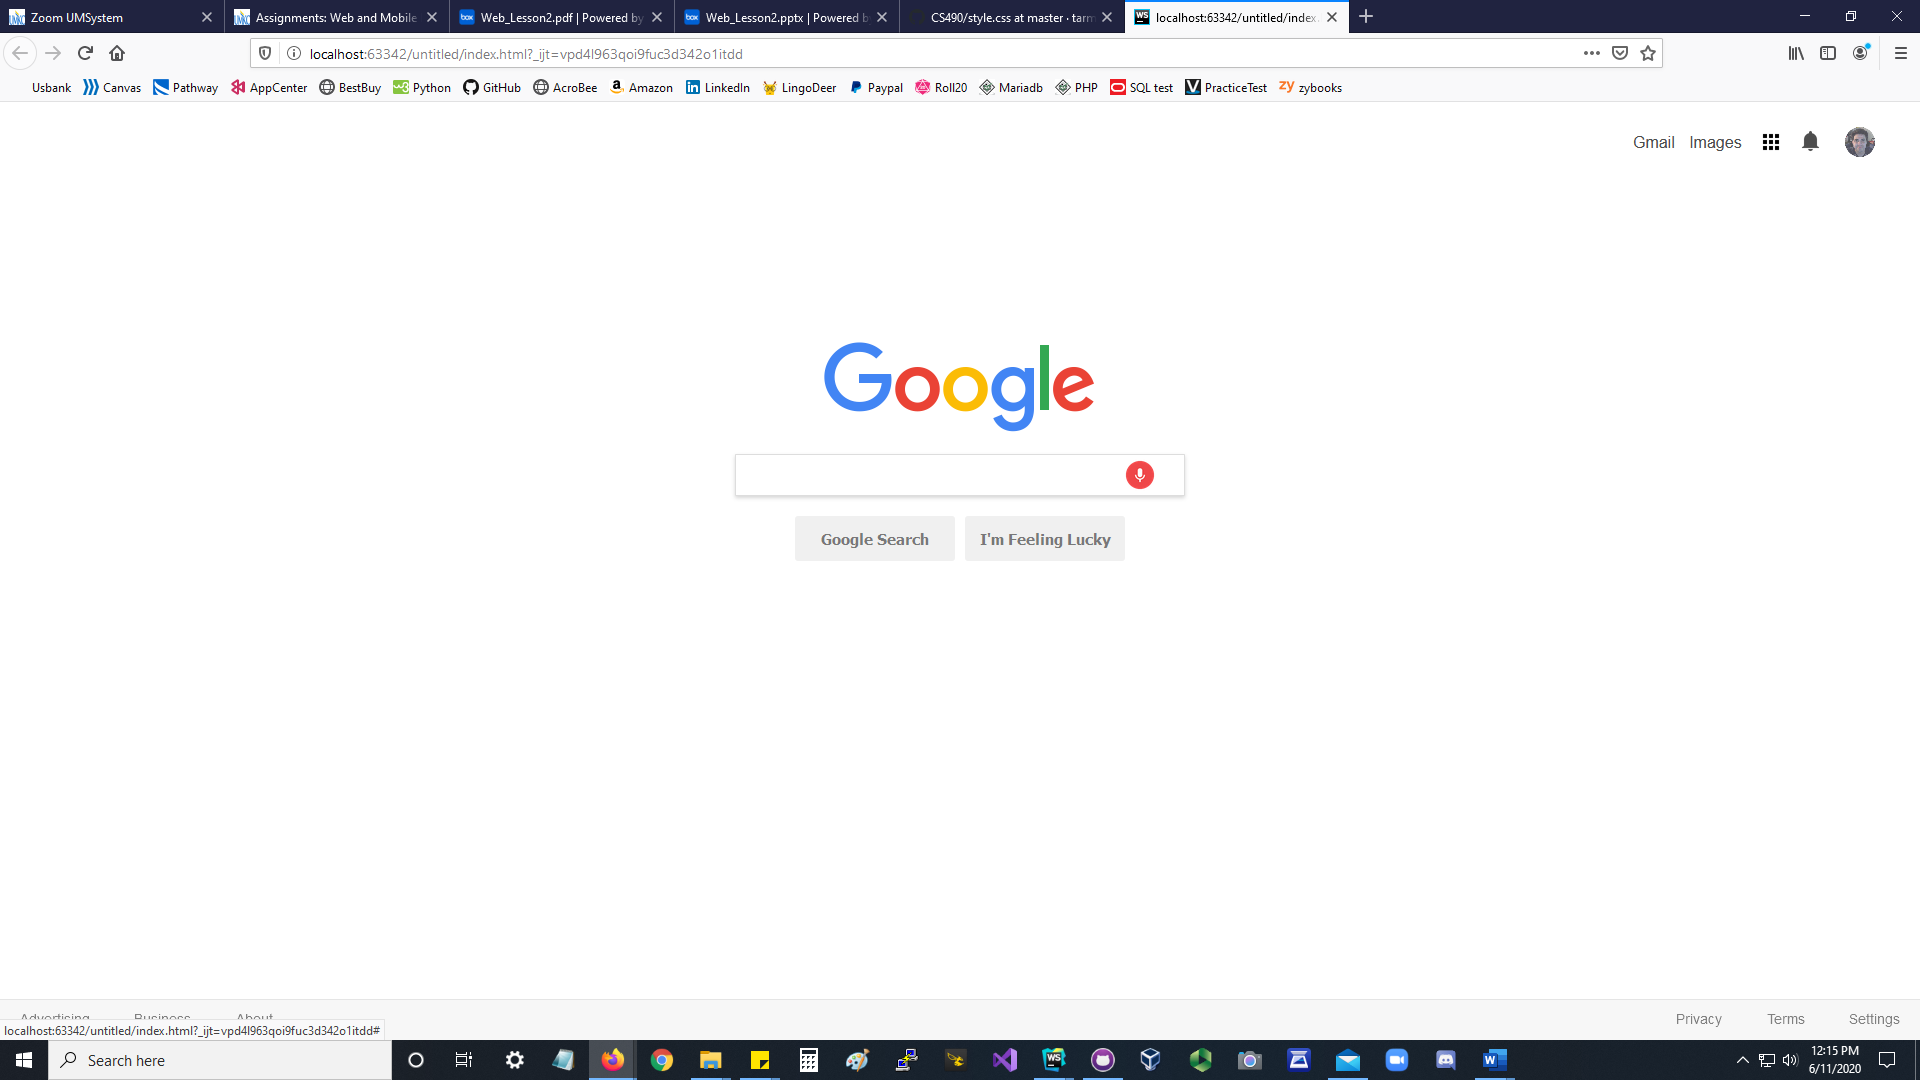
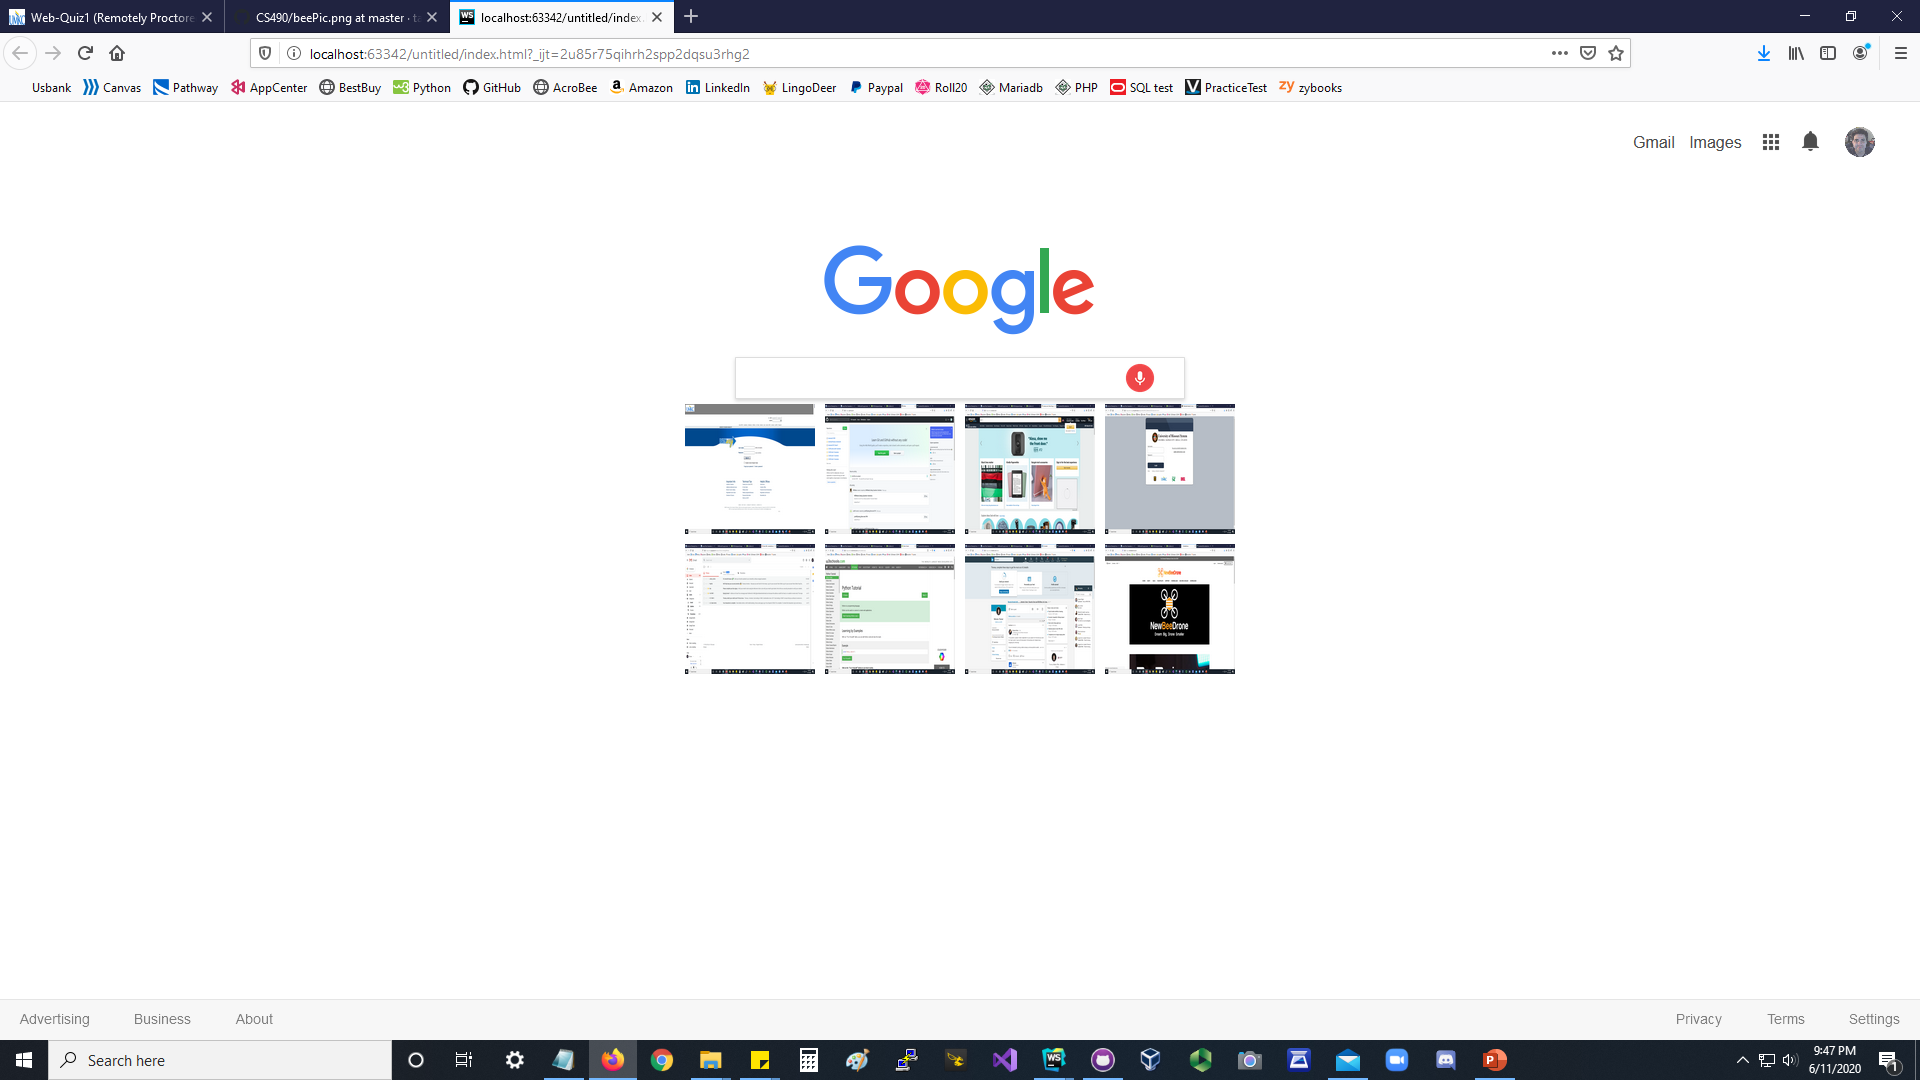
GooglePage done

diff --git a/Lesson2/Code/GooglePage/style.css b/Lesson2/Code/GooglePage/style.css
@@ -9,6 +9,7 @@ body {
     font-family: Arial, sans-serif;
 }
 
+
 #nav-bar {
     height: 150px;
     margin-top: 20px;
@@ -93,7 +94,123 @@ body {
     width: 272px;
     height: 92px;
 }
+#recent-page-center {
 
+    align-content: center;
+    display: flex;
+    justify-content: center;
+
+
+
+}
+#recent-page-center2 {
+
+    align-content: center;
+    display: flex;
+    justify-content: center;
+
+
+
+}
+#recent-page1 {
+
+    background-image: url("https://raw.githubusercontent.com/tarmenta/CS490/master/Lesson2/Pictures/umkcPic.png");
+    width: 130px;
+    height: 130px;
+    background-size: 130px 130px;
+    margin: 5px;
+
+
+    float: left;
+
+
+}
+
+#recent-page2 {
+
+    background-image: url("https://raw.githubusercontent.com/tarmenta/CS490/master/Lesson2/Pictures/GitHubPic.png");
+    width: 130px;
+    height: 130px;
+    background-size: 130px 130px;
+    margin: 5px;
+
+
+    float: left;
+
+}
+#recent-page3 {
+
+    background-image: url("https://raw.githubusercontent.com/tarmenta/CS490/master/Lesson2/Pictures/amazonPic.png");
+    width: 130px;
+    height: 130px;
+    background-size: 130px 130px;
+    margin: 5px;
+
+    float: left;
+
+}
+#recent-page4 {
+
+    background-image: url("https://raw.githubusercontent.com/tarmenta/CS490/master/Lesson2/Pictures/CanvasPic.png");
+    width: 130px;
+    height: 130px;
+    background-size: 130px 130px;
+
+    margin: 5px;
+
+    float: left;
+
+
+}
+#recent-page5 {
+
+    background-image: url("https://raw.githubusercontent.com/tarmenta/CS490/master/Lesson2/Pictures/GmailPic.png");
+    width: 130px;
+    height: 130px;
+    background-size: 130px 130px;
+    margin: 5px;
+
+
+    float: left;
+    clear: both;
+
+}
+#recent-page6 {
+
+    background-image: url("https://raw.githubusercontent.com/tarmenta/CS490/master/Lesson2/Pictures/w3Pic.png");
+    width: 130px;
+    height: 130px;
+    background-size: 130px 130px;
+
+    margin: 5px;
+
+    float: left;
+
+
+}
+#recent-page7 {
+
+    background-image: url("https://raw.githubusercontent.com/tarmenta/CS490/master/Lesson2/Pictures/linkedPic.png");
+    width: 130px;
+    height: 130px;
+    background-size: 130px 130px;
+    margin: 5px;
+
+
+    float: left;
+
+}
+#recent-page8 {
+
+    background-image: url("https://raw.githubusercontent.com/tarmenta/CS490/master/Lesson2/Pictures/beePic.png");
+    width: 130px;
+    height: 130px;
+    background-size: 130px 130px;
+    margin: 5px;
+
+    float: left;
+
+}
 #search-bar {
     position: relative;
     flex-basis: 100%;

diff --git a/Lesson2/Code/GooglePage/index.html b/Lesson2/Code/GooglePage/index.html
@@ -7,6 +7,10 @@
     </head>
 
     <body>
+
+
+
+
     <ul id="nav-bar">
         <li><a href="#" class="nav-bar-opacity">Gmail</a></li>
         <li><a href="#" class="nav-bar-opacity">Images</a></li>
@@ -24,11 +28,36 @@
             <input type="text" name="search">
             <a href="#" id="speech-link"><img src="https://lh5.googleusercontent.com/OorCLDb2xlVQ4P2MDNCiwAnpv0K1ZrcDwEwRS3sOfDMrnYTnVPvCh7WtFQMbZ_S9u_jzcSLd8g=s128-h128-e365" alt="Speech icon"></a>
         </div>
-        <div class="buttons">
+       <!-- <div class="buttons">
             <button name="Google-Search"><p>Google Search</p></button>
             <button name="Feeling-Lucky"><p>I'm Feeling Lucky</p></button>
-        </div>
+        </div> -->
+        <ul id="recent-page-center">
+
+            <li><a href="https://umkc.umsystem.edu/psp/csprdk/?cmd=login"  target="_blank"><div id="recent-page1" ></div></a> </li>
+            <li><a href="https://github.com"  target="_blank"><div id="recent-page2" ></div></a> </li>
+            <li><a href="https://www.amazon.com/"  target="_blank"><div id="recent-page3" ></div></a> </li>
+            <li><a href="https://umkc.instructure.com"  target="_blank"><div id="recent-page4" ></div></a> </li>
+
+
+        </ul>
+        <ul id="recent-page-center2">
+
+
+            <li><a href="https://mail.google.com/mail/"  target="_blank"><div id="recent-page5" ></div></a> </li>
+            <li><a href="https://www.w3schools.com/default.asp"  target="_blank"><div id="recent-page6" ></div></a> </li>
+            <li><a href="https://www.linkedin.com"  target="_blank"><div id="recent-page7" ></div></a> </li>
+            <li><a href="https://newbeedrone.com/"  target="_blank"><div id="recent-page8" ></div></a> </li>
+
+        </ul>
     </div>
+
+
+
+
+
+
+
     </body>
     <footer>
         <div class="bottom-nav">
